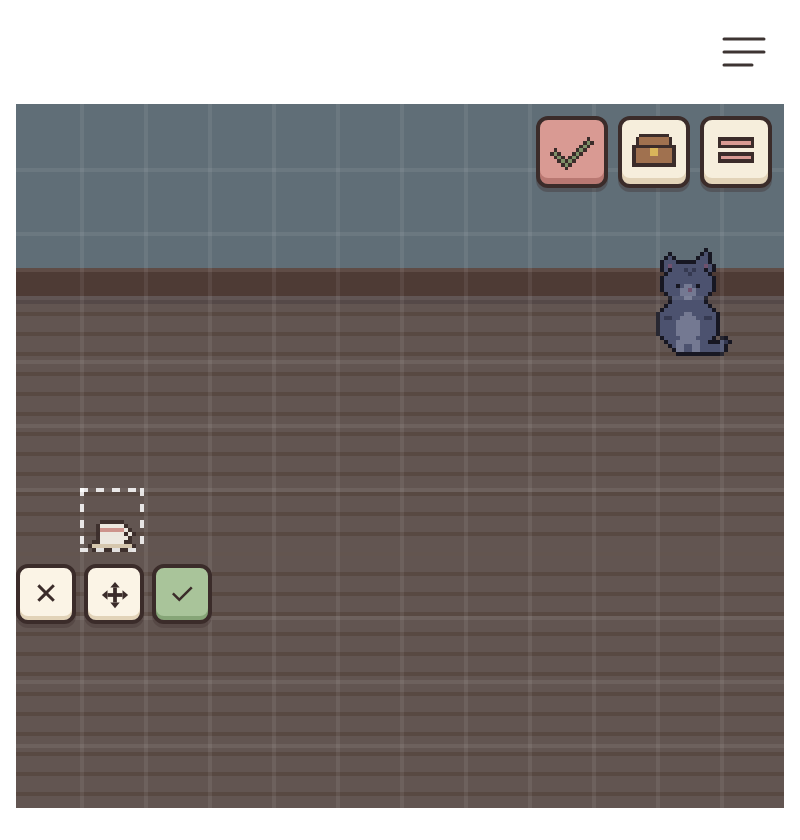
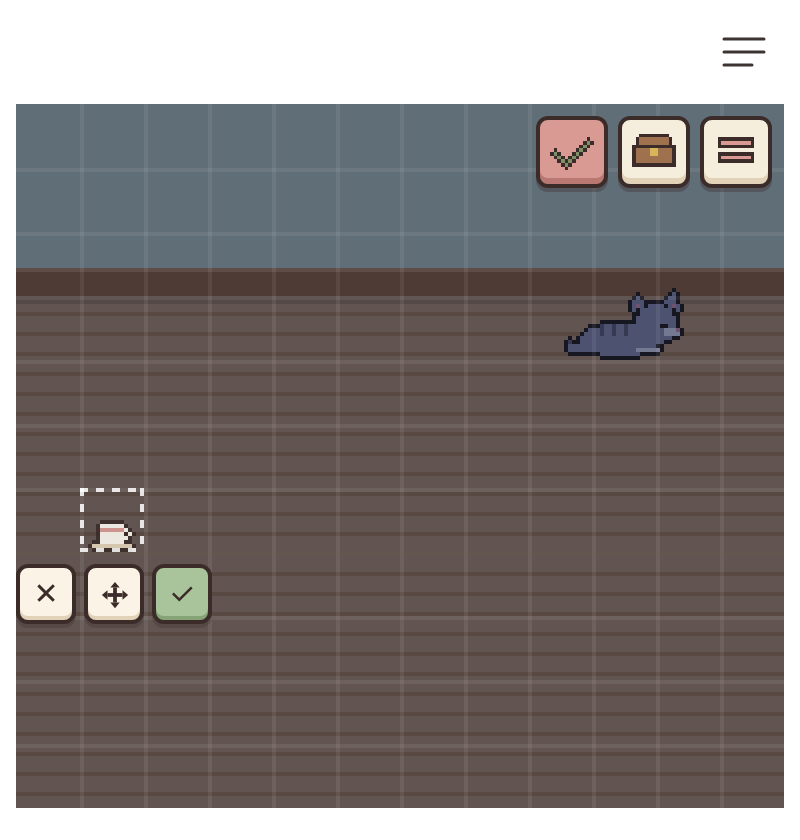
Stretched-out sleep holds its last frame instead of breathing
Claude-Session: https://claude.ai/code/session_01SwpWmctocYA16fp9hY3pMG

Changed region(s): [[0.6875, 0.2786, 0.9062, 0.4333]]

diff --git a/js/room.js b/js/room.js
@@ -859,10 +859,6 @@ function catFrame(now) {
   const meta = CAT_ANIMS.find((m) => m.key === catState.anim);
   let i = catState.still ? 0 : Math.floor(((now - catState.animStart) / 1000) * a.fps * (catState.fast ? 2 : catState.creep ? 0.5 : 1));
   i = meta && meta.once ? Math.min(i, a.count - 1) : i % Math.max(1, a.count);
-  // Sleeping stretched out, it breathes: its last two lying-down frames, slowly.
-  if (catState.anim === 'lieDown' && catState.stretch && catState.mode === 'sleep' && a.count > 1 && animDone(now)) {
-    i = a.count - 2 + (Math.floor(((now - catState.animStart) / 1000) * 1.5) % 2);
-  }
   return { frame: a.start + i, mirror: a.mirror };
 }
 
